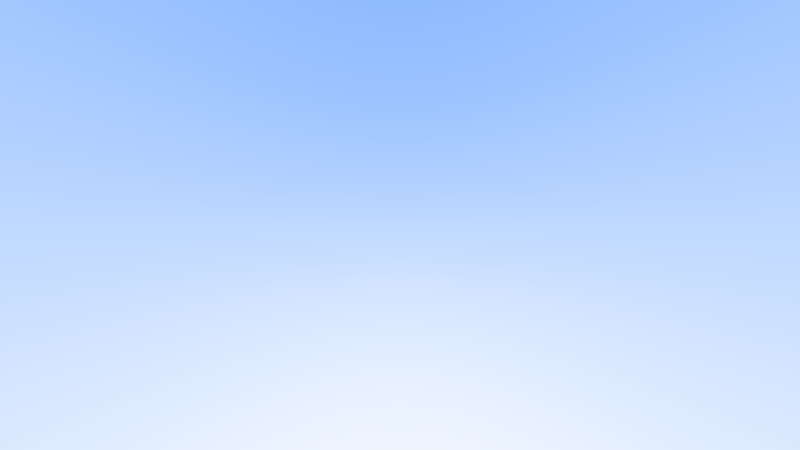
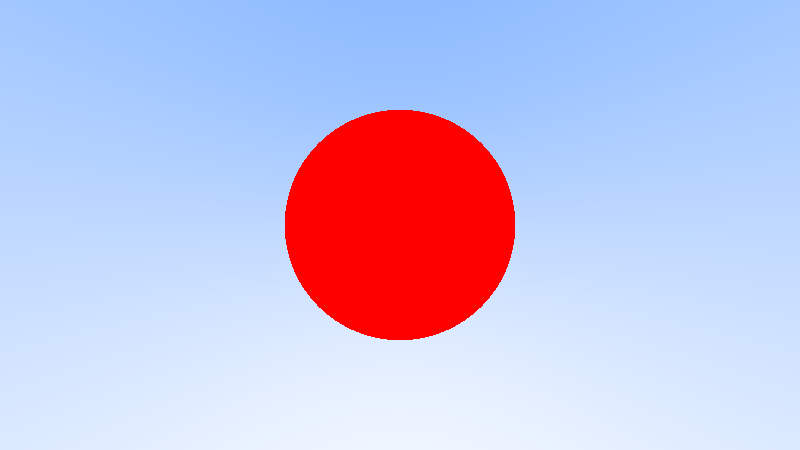
Sphere

Changed region(s): [[0.3438, 0.2489, 0.6562, 0.7778]]

diff --git a/src/main.rs b/src/main.rs
@@ -2,6 +2,7 @@ mod color;
 mod image;
 mod math;
 mod scene;
+mod shapes;
 
 use std::{
     fs::File,
@@ -14,7 +15,10 @@ use scene::Scene;
 
 pub type RayResult<T> = Result<T, Box<dyn std::error::Error>>;
 
-fn trace(ray: Ray, scene: &Scene) -> Color {
+fn trace(ray: &Ray, scene: &Scene) -> Color {
+    if let Some(_) = scene.sphere.hit(&ray) {
+        return Color::new(1.0, 0.0, 0.0);
+    }
     let unit_direction = ray.direction.normalized();
     let t = 0.5 * (unit_direction.y + 1.0);
     scene.background.bottom.lerp(&scene.background.top, t)
@@ -26,7 +30,7 @@ fn render(scene: &Scene, image: &mut Image) {
             let u = i as f64 / (image.width - 1) as f64;
             let v = j as f64 / (image.height - 1) as f64;
             let ray = scene.camera.ray(u, v);
-            let color = trace(ray, scene);
+            let color = trace(&ray, scene);
             image.set_color(i, j, color);
         }
     }

diff --git a/src/shapes.rs b/src/shapes.rs
@@ -1,0 +1,26 @@
+use serde::Deserialize;
+use crate::math::{Vector3, Ray};
+
+pub struct Hit {
+}
+
+#[derive(Deserialize)]
+pub struct Sphere {
+    pub center: Vector3,
+    pub radius: f64,
+}
+
+impl Sphere {
+    pub fn hit(&self, ray: &Ray) -> Option<Hit> {
+        let oc = ray.origin - self.center;
+        let a = ray.direction.dot(&ray.direction);
+        let b = 2.0 * ray.direction.dot(&oc);
+        let c = oc.dot(&oc) - self.radius * self.radius;
+        let discriminant = b * b - 4.0 * a * c;
+        if discriminant > 0.0 {
+            Some(Hit {})
+        } else {
+            None
+        }
+    }
+}

diff --git a/src/math.rs b/src/math.rs
@@ -23,6 +23,10 @@ impl Vector3 {
     pub fn length(&self) -> f64 {
         (self.x * self.x + self.y * self.y + self.z * self.z).sqrt()
     }
+
+    pub fn dot(&self, other: &Self) -> f64 {
+        self.x * other.x + self.y * other.y + self.z * other.z
+    }
 }
 
 impl From<[f64; 3]> for Vector3 {

diff --git a/src/scene.rs b/src/scene.rs
@@ -2,12 +2,14 @@ use serde::Deserialize;
 use crate::{
     color::Color,
     math::{Vector3, Ray},
+    shapes::Sphere,
 };
 
 #[derive(Deserialize)]
 pub struct Scene {
     pub camera: Camera,
     pub background: Background,
+    pub sphere: Sphere,
 }
 
 #[derive(Deserialize)]

diff --git a/src/color.rs b/src/color.rs
@@ -10,7 +10,7 @@ pub struct Color {
 }
 
 impl Color {
-    pub const fn _new(r: f64, g: f64, b: f64) -> Self {
+    pub const fn new(r: f64, g: f64, b: f64) -> Self {
         Self { r, g, b }
     }
 
